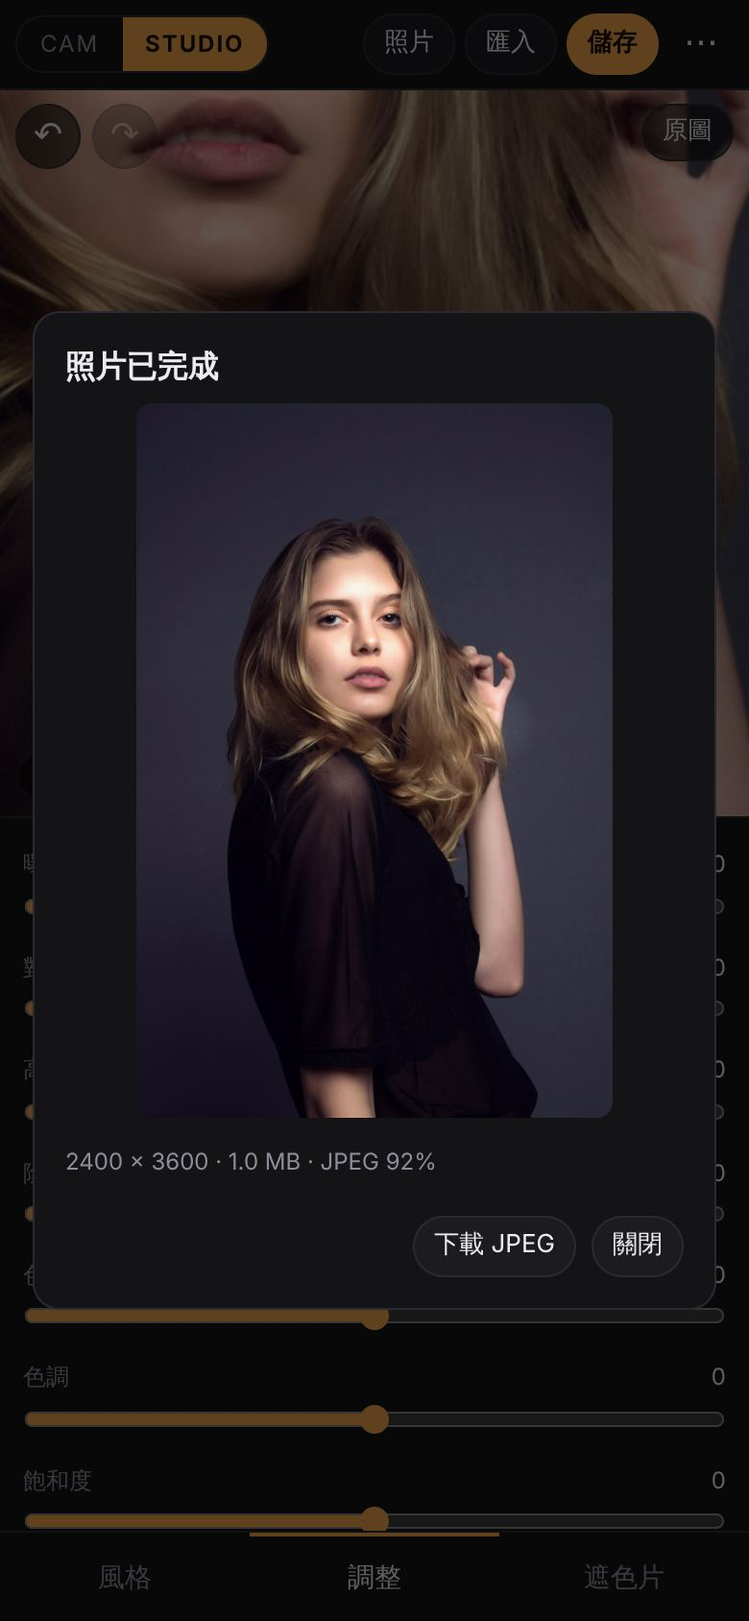
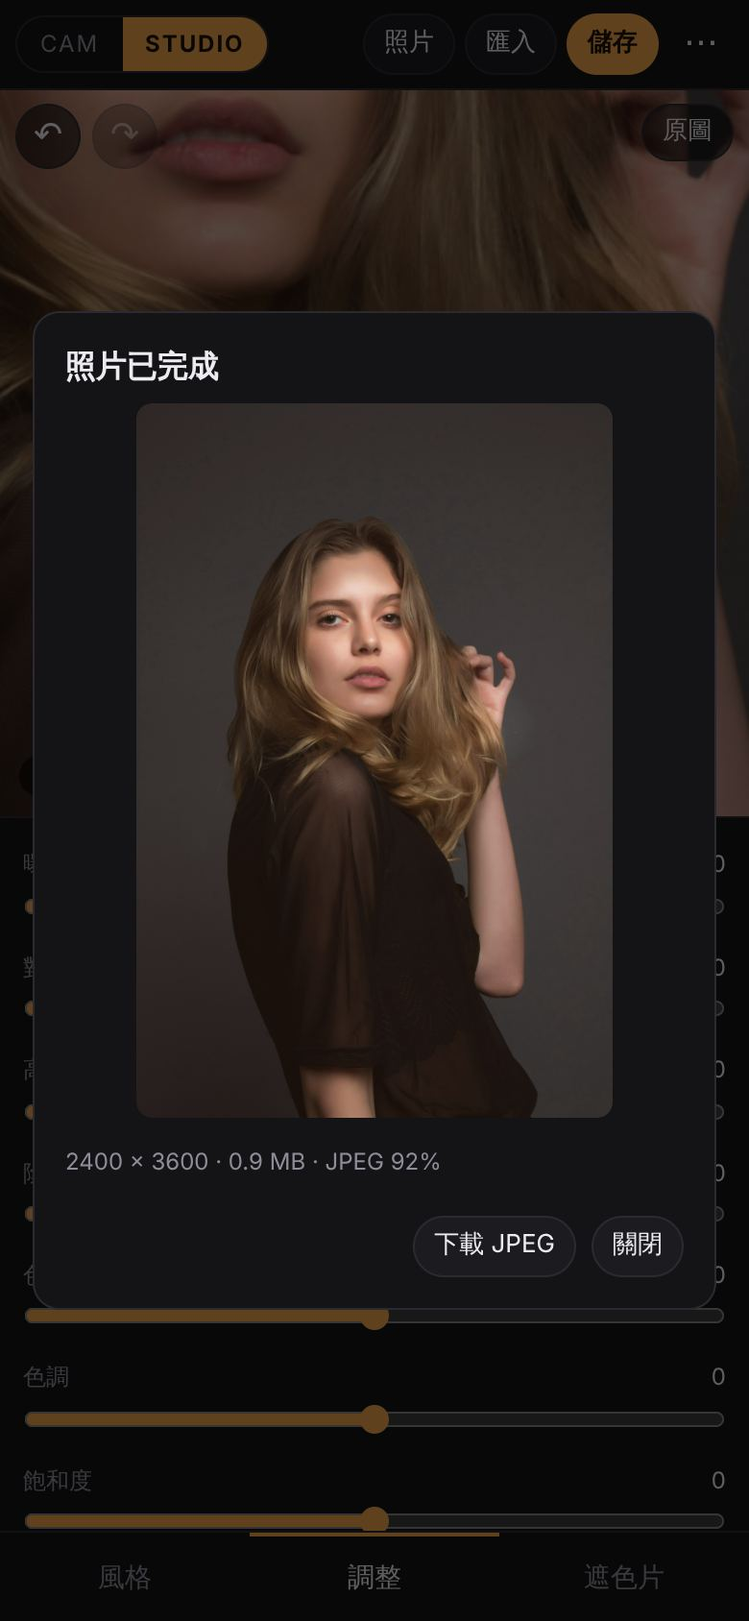
Edit a roll shot in Studio with the settings it was taken with
The camera's photo page gets an Edit button. Studio opens the shot's
original from the camera's roll database (read only, never created),
applies the same cinema crop and mirroring, moves the shot's masks into
that frame, and selects the look with the dials it was taken with:
strength, exposure, white balance, highlights and shadows, grain, glow,
sharpening and beauty. For these shots strength fades the colour only,
as in the camera. Beauty smoothing is ported to Studio for this.

The camera's full-size develop now snaps the cinema crop to whole pixels.
Acceptance adds a roll round trip: Studio's export matches the camera's
developed JPEG to 0.87/255 on average.

Claude-Session: https://claude.ai/code/session_01FRf5iYRawD8pofpK2po6zc

diff --git a/dist/eigastudio/src/app.js b/dist/eigastudio/src/app.js
@@ -5,7 +5,8 @@ import {parseXmp, XMP_FIELDS} from './xmp.js';
 import {parseCube} from './cube.js';
 import {bakeGrade} from './lr.js';
 import {compileLook, parseRecipeFile, describeLook, BUILTIN} from './recipe.js';
-import {pointCurve} from '../../src/color.js';
+import {pointCurve, cropFor} from '../../src/color.js';
+import {sanitizeMasks} from '../../src/masks.js';
 import {decodeImage, release, canvasBlob, download} from '../../src/files.js';
 import {canSharePhoto, sharePhoto} from '../../src/photo-delivery.js';
 import {zipSync, deflateSync, inflateSync} from '../vendor/fflate.js';
@@ -42,8 +43,8 @@ function camStyles() {
  } catch {}
  return out;
 }
-let virtual = [];
-const allStyles = () => [...lib.styles, ...virtual];
+let virtual = [], shotStyles = [];
+const allStyles = () => [...shotStyles, ...lib.styles, ...virtual];
 const styleById = id => id ? allStyles().find(s => s.id === id) : null;
 
 const compiled = new Map();
@@ -54,7 +55,8 @@ async function compile(style, size) {
  const text = style.text ?? (style.def ? null : decodeText(await lib.source(style.hash)));
  if (style.kind === 'xmp') {const x = parseXmp(text); c = {lut: bakeGrade(x.grade, size), masks: x.masks.map((m, i) => ({...m, id: 's' + i})), vignette: x.vignette, grain: x.grain};}
  else if (style.kind === 'cube') c = {lut: parseCube(text, style.file).lut, masks: [], vignette: 0, grain: {amount: 0, size: 1.5}};
- else c = compileLook(style.def ?? parseRecipeFile(text)[style.sub ?? 0], size);
+ else c = compileLook(style.def ?? parseRecipeFile(text)[style.sub ?? 0], size, style.dials);
+ if (style.dials) c = {...c, camStrength: true, ...(style.shotMasks ? {masks: sanitizeMasks(style.shotMasks).map((m, i) => ({...m, id: 'k' + i, full: true}))} : {})};
  compiled.set(key, c);
  if (compiled.size > 64) compiled.delete(compiled.keys().next().value);
  return c;
@@ -113,7 +115,7 @@ async function loadPhoto(blob, name, saved = null) {
   ui.z = 1; ui.tx = ui.ty = 0; fit(); syncBrushLayers(); updateCurve(); syncPanels();
   await loadCurrentStyle(); commit(false);
   renderGrid();
-  if (!saved) lib.setMeta('photo', {blob, name}).catch(() => {});
+  if (!saved) {lib.setMeta('photo', {blob, name}).catch(() => {}); if (shotStyles.length) {shotStyles = []; lib.setMeta('shotStyle', null).catch(() => {}); if (state.styleId?.startsWith('shot:')) {state.styleId = null; await loadCurrentStyle();} refreshLibrary();}}
  } catch (e) {toast(e.message || '無法開啟這張照片');}
  finally {busy(null);}
 }
@@ -585,6 +587,60 @@ function initMenu() {
  });
 }
 
+// ---------- open a shot from the CAM film roll ----------
+// Reads the camera's own roll database (same site) without ever creating or upgrading it.
+function camRoll(id) {
+ return new Promise((resolve, reject) => {
+  const req = indexedDB.open('eigacam-roll', 1);
+  req.onupgradeneeded = () => req.transaction.abort(); // no roll on this device: do not create an empty one
+  req.onerror = () => reject(Error('找不到 CAM 的底片盒'));
+  req.onsuccess = () => {
+   const db = req.result, tx = db.transaction(['shots', 'files']), shot = tx.objectStore('shots').get(id), file = tx.objectStore('files').get(id + ':original');
+   tx.oncomplete = () => {db.close(); shot.result && file.result ? resolve({shot: shot.result, blob: file.result}) : reject(Error('底片盒裡找不到這張照片的原始檔'));};
+   tx.onerror = () => {db.close(); reject(tx.error);};
+  };
+ });
+}
+// The camera crops to the cinema frame and mirrors selfies when it develops; do the same once, here.
+// Camera masks live in full-frame coordinates; move them into the cropped (and mirrored) frame.
+function maskToFrame(m, cr, mirror) {
+ const X = v => {const u = (v - cr.x) / cr.w; return mirror ? 1 - u : u;}, Y = v => (v - cr.y) / cr.h, o = {...m};
+ if (m.type === 'linear') Object.assign(o, {x0: X(m.x0), y0: Y(m.y0), x1: X(m.x1), y1: Y(m.y1)});
+ if (m.type === 'radial') Object.assign(o, {cx: X(m.cx), cy: Y(m.cy), rx: m.rx / cr.w, ry: m.ry / cr.h});
+ return o;
+}
+function shotFrame(width, height, shot) {const cr = cropFor(width, height, shot.ratio || 0), w = Math.round(width * cr.w), h = Math.round(height * cr.h), x = Math.round(width * cr.x), y = Math.round(height * cr.y); return {px: {x, y, w, h}, cr: {x: x / width, y: y / height, w: w / width, h: h / height}};}
+async function frameAsShot(blob, shot) {
+ if (!shot.ratio && !shot.mirror) return blob;
+ const im = await createImageBitmap(blob, {imageOrientation: 'from-image'}), {px, cr} = shotFrame(im.width, im.height, shot);
+ if (Array.isArray(shot.masks)) shot.masks = shot.masks.map(m => maskToFrame(m, cr, shot.mirror));
+ const c = document.createElement('canvas'); c.width = px.w; c.height = px.h;
+ const x = c.getContext('2d'); if (shot.mirror) {x.translate(c.width, 0); x.scale(-1, 1);}
+ x.drawImage(im, px.x, px.y, px.w, px.h, 0, 0, px.w, px.h); im.close?.(); // whole pixels: no resampling
+ try {return await canvasBlob(c, 'image/jpeg', .97);} finally {c.width = c.height = 1;}
+}
+function useShotStyle(desc) {
+ const base = desc && (styleById('cam:' + desc.look) ?? styleById('camr:' + desc.look) ?? styleById('camx:' + desc.look));
+ shotStyles = base ? [{...base, id: 'shot:' + desc.id, name: `${base.name}（拍攝設定）`, pack: '這張照片', virtual: true, dials: desc.dials ?? {}, shotMasks: desc.masks}] : [];
+ return base;
+}
+async function openShot(id) {
+ busy('從底片盒讀取原始檔');
+ let found; try {found = await camRoll(id);} catch (e) {busy(null); toast(e.message); return;}
+ const {shot} = found;
+ let blob; try {blob = await frameAsShot(found.blob, shot);} catch {blob = found.blob;}
+ const d = shot.dials ?? {}, num = (v, lo, hi) => Number.isFinite(v) ? clamp(v, lo, hi) : 0;
+ const desc = {id: shot.id, look: shot.look, dials: d, masks: Array.isArray(shot.masks) ? shot.masks : null}, base = useShotStyle(desc);
+ lib.setMeta('shotStyle', base ? desc : null).catch(() => {});
+ const name = `eigacam-${new Date(shot.created).toISOString().slice(0, 19).replace(/[-:T]/g, '')}.jpg`;
+ const adjust = {...newAdjust(), exposure: num(d.ev, -3, 3), temp: Math.round(num(d.warmth, -50, 50) * 1.067), highlights: num(d.hi, -100, 100), shadows: num(d.sh, -100, 100)};
+ const json = JSON.stringify({styleId: base ? 'shot:' + shot.id : null, strength: Number.isFinite(d.strength) ? clamp(d.strength, 0, 100) : 100, adjust, masks: [], sel: null});
+ busy(null); refreshLibrary();
+ await loadPhoto(blob, name, {json});
+ lib.setMeta('photo', {blob, name}).catch(() => {}); saveSoon();
+ toast(base ? `已用原始檔打開，套用拍攝時的「${base.name}」與參數` : '已用原始檔打開；拍攝時的色彩在 Studio 找不到，請從風格庫重新選');
+}
+
 // ---------- boot ----------
 function setTab(tab) {document.body.dataset.tab = tab; renderHandles(); draw(); if (tab === 'styles') requestAnimationFrame(() => pump());}
 async function boot() {
@@ -620,8 +676,13 @@ async function boot() {
  addEventListener('dragover', e => e.preventDefault());
  addEventListener('drop', e => {e.preventDefault(); depth = 0; $('dropHint').hidden = true; dropped(e);});
  refreshLibrary();
- const saved = await lib.getMeta('photo').catch(() => null);
- if (saved?.blob) await loadPhoto(saved.blob, saved.name, await lib.getMeta('edit').catch(() => null) ?? {json: '{}'});
+ const shotId = new URLSearchParams(location.search).get('shot');
+ if (shotId) {window.history.replaceState(null, '', location.pathname); await openShot(shotId);}
+ else {
+  useShotStyle(await lib.getMeta('shotStyle').catch(() => null)); renderPackFilter(); renderGrid();
+  const saved = await lib.getMeta('photo').catch(() => null);
+  if (saved?.blob) await loadPhoto(saved.blob, saved.name, await lib.getMeta('edit').catch(() => null) ?? {json: '{}'});
+ }
  if ('serviceWorker' in navigator && location.protocol === 'https:') navigator.serviceWorker.register('./sw.js').catch(() => {});
  // Hook for the automated checks in tests/studio-e2e.mjs.
  globalThis.eigastudio = {state, ui, lib, mainR, thumbR, renderNow, compile, styleById, allStyles, runImport, loadPhoto, exportPhoto, renderFull, renderMasks, get photo() {return photo;}, get exportFiles() {return exportFiles;}, get lastReport() {return lastReport;}, get current() {return current;}, get queue() {return queue.size + (pumping ? 1 : 0);}, get tiles() {return tiles;}};

diff --git a/dist/eigastudio/src/engine.js b/dist/eigastudio/src/engine.js
@@ -12,7 +12,7 @@ const fragment = `#version 300 es
 precision highp float;precision highp int;precision highp sampler3D;precision highp sampler2DArray;
 in vec2 uv;out vec4 frag;
 uniform sampler2D src,curveTex,nearTex,farTex,baseTex;uniform int op;uniform vec2 direction;uniform float threshold;uniform vec3 glowTint;
-uniform float sharpen,clarity,soft,localClarity,localClarityLow,halation,bloom,skinKeep;uniform sampler3D lut;uniform sampler2DArray brushTex;
+uniform float sharpen,clarity,soft,localClarity,localClarityLow,halation,bloom,skinKeep,beauty;uniform sampler3D lut;uniform sampler2DArray brushTex;
 uniform vec2 outSize;uniform float srcAspect,bypass,strength,lutOn,lutSize,lutDisplay,curveOn;
 uniform vec3 domainMin,domainMax,gain,overlayColor;
 uniform float contrast,highlights,shadows,saturation,vignette,grainAmount,grainSize;
@@ -70,7 +70,14 @@ void main(){
  vec2 img=vec2(uv.x,1.-uv.y);
  vec4 s=texture(src,uv);
  if(bypass>.5){frag=vec4(s.rgb,1.);return;}
- vec3 c=decode(s.rgb)*gain,raw=c;float skin=skinKeep>0.||clarity>0.||soft>0.||localClarity<0.?skinMask(raw):0.;
+ vec3 c=decode(s.rgb)*gain,raw=c;float skin=skinKeep>0.||clarity>0.||soft>0.||localClarity<0.||beauty>0.?skinMask(raw):0.;
+ // Beauty (shots from the camera only): edge-preserving smoothing on skin; eyes, brows and hair differ in tone and are kept.
+ if(beauty>0.&&skin>.02){
+  vec2 px=1./outSize;float R=.0045*min(outSize.x,outSize.y);vec3 sum=c;float wsum=1.;float y0=sqrt(lum(c));
+  for(int i=0;i<12;i++){float a=float(i)*6.2831853/12.;for(int k=1;k<=2;k++){vec3 q=scene(uv+vec2(cos(a),sin(a))*px*R*float(k)*.5);float w=exp(-pow(sqrt(lum(q))-y0,2.)/.0032)*skinMask(q);sum+=q*w;wsum+=w;}}
+  c=mix(c,sum/wsum,clamp(beauty*skin*.9,0.,1.));raw=c;
+ }
+ float smoothSkin=1.-.85*skin*min(beauty*2.,1.);
  if(contrast!=0.||highlights!=0.||shadows!=0.){ // tone on display luminance, applied as a ratio so hue holds
   float y0=lum(c),Y=clamp(enc1(y0),0.,1.),Y0=Y;float k=1.+contrast*.5;
   Y=Y<.5?.5*pow(Y/.5,k):1.-.5*pow((1.-Y)/.5,k);
@@ -81,7 +88,7 @@ void main(){
  if(curveOn>.5){vec3 d=clamp(encode(c),0.,1.)*(255./256.)+.5/256.;c=decode(vec3(texture(curveTex,vec2(d.r,.5)).r,texture(curveTex,vec2(d.g,.5)).g,texture(curveTex,vec2(d.b,.5)).b));}
  if(sharpen>0.){ // luminance-only unsharp mask on a one-pixel cross, soft-limited so edges never ring
   vec2 px=1./outSize;vec3 n=(scene(uv+vec2(px.x,0.))+scene(uv-vec2(px.x,0.))+scene(uv+vec2(0.,px.y))+scene(uv-vec2(0.,px.y)))*.25;
-  float L=sqrt(max(lum(raw),0.)),N=sqrt(max(lum(n),0.)),d=L-N;d=d/(1.+abs(d)*6.);float sL=max(L+sharpen*1.6*d,0.);c*=sL*sL/max(L*L,1e-6);
+  float L=sqrt(max(lum(raw),0.)),N=sqrt(max(lum(n),0.)),d=L-N;d=d/(1.+abs(d)*6.);float sL=max(L+sharpen*smoothSkin*1.6*d,0.);c*=sL*sL/max(L*L,1e-6);
  }
  vec3 base=c;float shown=0.;
  for(int i=0;i<${MAX_SLOTS};i++){if(i>=maskCount)break;float m=maskValue(i,img,base);c=adjust(c,m*mA[i].w,i);if(i==maskView-1)shown=m;}
@@ -94,14 +101,14 @@ void main(){
  if(lutOn>.5){
   vec3 glow=halation+bloom>0.?texture(nearTex,uv).rgb*halation*glowTint+texture(farTex,uv).rgb*bloom*mix(vec3(1.),glowTint,.4):vec3(0.);
   color=mix(neutral,lookup(c+glow),strength);
-  if(skinKeep>0.&&skin>.02){vec3 nat=neutral*vec3(1.015,.99,.985);nat=mix(vec3(lum(nat)),nat,.92);color=mix(color,mix(nat,color,.38),skin*skinKeep*strength);}
+  if(skinKeep>0.&&skin>.02){vec3 nat=neutral*vec3(1.015,.99,.985);nat+=(1.-nat)*.05*beauty;nat=mix(vec3(lum(nat)),nat,.92);color=mix(color,mix(nat,color,.38),skin*skinKeep*strength);}
   vec2 q=uv-.5;q.x*=outSize.x/outSize.y;float r=length(q)/length(vec2(.5*outSize.x/outSize.y,.5));
   color*=1.-vignette*strength*smoothstep(.35,1.05,r);
   if(grainAmount>0.){
    vec2 g=img*outSize/min(outSize.x,outSize.y)*1000./grainSize;vec2 o=vec2(250./(min(outSize.x,outSize.y)*grainSize));
    float gn=(grain(g+o)+grain(g-o)+grain(g+vec2(o.x,-o.y))+grain(g+vec2(-o.x,o.y)))*.25;
    float y=lum(color);float w=(.35+.65*pow(max(0.,1.-abs(y-.45)*1.8),.7))*smoothstep(0.,.1,y)*(1.-.7*smoothstep(.8,1.,y));
-   color+=gn*grainAmount*strength*w;
+   color+=gn*grainAmount*strength*w*(1.-.75*skin*min(beauty*2.,1.)); // keep smoothed skin clean
   }
  }
  if(maskView>0)color=mix(color,overlayColor,shown*.55);
@@ -114,7 +121,7 @@ const TYPES = ['linear', 'radial', 'luma', 'color', 'brush'];
 
 // styleMasks follow the style's strength; user masks are always at full amount.
 export function packMasks(styleMasks, userMasks, strength, viewId) {
- const live = [...(styleMasks ?? []).filter(m => m.enabled !== false && !maskIsNeutral(m)).map(m => ({m, amount: strength})), ...(userMasks ?? []).filter(m => m.id === viewId || (m.enabled !== false && !maskIsNeutral(m))).map(m => ({m, amount: m.enabled === false ? 0 : 1}))].slice(0, MAX_SLOTS);
+ const live = [...(styleMasks ?? []).filter(m => m.enabled !== false && !maskIsNeutral(m)).map(m => ({m, amount: m.full ? 1 : strength})), ...(userMasks ?? []).filter(m => m.id === viewId || (m.enabled !== false && !maskIsNeutral(m))).map(m => ({m, amount: m.enabled === false ? 0 : 1}))].slice(0, MAX_SLOTS);
  const a = new Float32Array(MAX_SLOTS * 4), b = new Float32Array(MAX_SLOTS * 4), c = new Float32Array(MAX_SLOTS * 4), d = new Float32Array(MAX_SLOTS * 4);
  live.forEach(({m, amount}, i) => {
   const o = i * 4, geo = m.type === 'linear' ? [m.x0, m.y0, m.x1, m.y1] : m.type === 'radial' ? [m.cx, m.cy, m.rx, m.ry] : m.type === 'luma' ? [m.lo / 100, m.hi / 100, m.feather / 100, 0] : m.type === 'color' ? [m.hue / 360, m.width / 360, m.feather / 360, 0] : [0, 0, 0, 0];
@@ -256,9 +263,10 @@ export class StudioRenderer {
   f('curveOn', p.curve !== false && this.hasCurve ? 1 : 0);
   f('vignette', style?.vignette ?? 0); f('grainAmount', style?.grain?.amount ?? 0); f('grainSize', style?.grain?.size ?? 1.5);
   // Camera look effects (eigacam looks only). Everything but the glow is scaled by strength, so 0% is the untouched photo.
-  const fx = style?.fx, k = strength, glow = fx && (fx.halation + fx.bloom) > 0, base = fx && k > 0 && (fx.clarity > 0 || fx.soft > 0 || fx.localClarity < 0);
+  // A shot opened from the camera keeps the camera's rule: strength fades the colour only.
+  const fx = style?.fx, k = style?.camStrength ? 1 : strength, glow = fx && (fx.halation + fx.bloom) > 0, base = fx && k > 0 && (fx.clarity > 0 || fx.soft > 0 || fx.localClarity < 0);
   f('sharpen', (fx?.sharpen ?? 0) * k); f('clarity', (fx?.clarity ?? 0) * k); f('soft', (fx?.soft ?? 0) * k); f('localClarity', (fx?.localClarity ?? 0) * k); f('localClarityLow', fx?.localClarityLow ?? .595);
-  f('halation', glow ? fx.halation : 0); f('bloom', glow ? fx.bloom : 0); f('skinKeep', fx?.skinKeep ?? 0);
+  f('halation', glow ? fx.halation : 0); f('bloom', glow ? fx.bloom : 0); f('skinKeep', fx?.skinKeep ?? 0); f('beauty', fx?.beauty ?? 0);
   const hue = (fx?.glowHue ?? 20) / 60, gs = fx?.glowSat ?? .55, tk = n => {const v = (n + hue) % 6; return 1 - gs * Math.max(0, Math.min(v, 4 - v, 1));}, tint = [tk(5), tk(3), tk(1)], tl = .2126 * tint[0] + .7152 * tint[1] + .0722 * tint[2];
   g.uniform3f(this.loc('glowTint'), ...tint.map(v => v / tl));
   for (const unit of [1, 2, 4]) {g.activeTexture(g.TEXTURE0 + unit); g.bindTexture(g.TEXTURE_2D, null);} // no feedback loops

diff --git a/dist/eigastudio/src/recipe.js b/dist/eigastudio/src/recipe.js
@@ -38,12 +38,14 @@ export function describeLook(def) {
  const look = resolveDef(def); checkLook(look);
  return {name: String(look.name ?? look.id ?? 'eigacam 配方').slice(0, 60), notes: [], partial: false};
 }
-export function compileLook(def, size = 33) {
+// dials: the camera dials a shot was taken with (grain, glow, sharpen); defaults otherwise.
+export function compileLook(def, size = 33, dials = {}) {
  const look = resolveDef(def);
  // Same settings the camera uses with its dials at their defaults (glow at the look's own default, no beauty smoothing).
- const s = renderSettings(look, {ev: 0, strength: 100, grain: 100, glow: look.glowDefault ?? 100, sharpen: 35, warmth: 0, beauty: 0});
+ const d = k => Number.isFinite(dials[k]) ? dials[k] : undefined;
+ const s = renderSettings(look, {ev: 0, strength: 100, grain: d('grain') ?? 100, glow: d('glow') ?? look.glowDefault ?? 100, sharpen: d('sharpen') ?? 35, warmth: 0, beauty: d('beauty') ?? 0});
  const n = (v, lo, hi) => Math.min(hi, Math.max(lo, Number(v) || 0));
- const fx = {sharpen: n(s.sharpen, 0, 1), clarity: n(s.clarity, 0, 1), soft: n(s.soft, 0, 1.5), localClarity: n(s.localClarity, -1, 0), localClarityLow: n(s.localClarityLow, .05, 1) || .595, halation: n(s.halation, 0, 2), bloom: n(s.bloom, 0, 2), glowHue: n(s.glowHue, 0, 360), glowSat: n(s.glowSat ?? .55, 0, 1), skinKeep: n(s.skinKeep, 0, 1)};
+ const fx = {sharpen: n(s.sharpen, 0, 1), clarity: n(s.clarity, 0, 1), soft: n(s.soft, 0, 1.5), localClarity: n(s.localClarity, -1, 0), localClarityLow: n(s.localClarityLow, .05, 1) || .595, halation: n(s.halation, 0, 2), bloom: n(s.bloom, 0, 2), glowHue: n(s.glowHue, 0, 360), glowSat: n(s.glowSat ?? .55, 0, 1), skinKeep: n(s.skinKeep, 0, 1), beauty: n(s.beauty, 0, 1)};
  return {lut: bakeLook(look, size), masks: sanitizeMasks(look.masks ?? []), vignette: n(s.vignette, 0, .6), grain: {amount: n(s.grain, 0, .2), size: n(s.grainSize, .5, 4) || 1.5}, fx};
 }
 

diff --git a/dist/src/style.css b/dist/src/style.css
@@ -281,8 +281,8 @@ button:focus-visible,[role=slider]:focus-visible{outline:2px solid var(--amber);
 .card small{padding:0 8px;font-size:11px;line-height:1.35;color:var(--dim);display:-webkit-box;-webkit-line-clamp:2;-webkit-box-orient:vertical;overflow:hidden}
 .card.active{border-color:var(--amber)}.card.active .code{color:var(--amber)}
 .card .remove{position:absolute;top:4px;right:4px;width:26px;height:26px;border-radius:50%;background:rgba(0,0,0,.6);color:#fff;font-size:15px;line-height:26px;text-align:center}
-.viewer-change{display:flex;justify-content:center;padding:8px 14px 0}
-.viewer-change .ghost{width:100%;max-width:420px;border-color:rgba(255,179,64,.5);color:var(--amber)}
+.viewer-change{display:flex;justify-content:center;gap:8px;padding:8px 14px 0}
+.viewer-change .ghost{flex:1;min-width:0;max-width:260px;white-space:nowrap;overflow:hidden;text-overflow:ellipsis;border-color:rgba(255,179,64,.5);color:var(--amber)}
 .exposure-ghost{position:absolute;inset:0;width:100%;height:100%;object-fit:fill;opacity:.45;pointer-events:none;mix-blend-mode:screen}
 .count{position:absolute;inset:0;display:grid;place-items:center;font:700 96px var(--mono);color:#fff;text-shadow:0 4px 30px #000;pointer-events:none}
 .aspects .glyph{font:700 15px var(--mono);color:var(--dim)}

diff --git a/dist/index.html b/dist/index.html
@@ -76,7 +76,7 @@
  <header class="sheet-head"><button class="back" id="viewerBack" aria-label="回到底片盒">‹ 底片盒</button><h2 id="viewerTitle"></h2><button id="viewerDelete" class="link danger-text">刪除</button></header>
  <div class="viewer-stage"><img id="viewerImage" alt=""><div id="viewerBusy" class="busy" hidden><span></span>重新沖印中</div></div>
  <p id="viewerMeta" class="viewer-meta"></p>
- <div id="viewerReel" class="viewer-change"><button id="viewerChange" class="ghost">換色彩 · 從原始檔重新沖印</button></div>
+ <div id="viewerReel" class="viewer-change"><button id="viewerChange" class="ghost">換色彩</button><button id="viewerEdit" class="ghost" title="在 Studio 用原始檔調整曲線、亮暗部、遮色片">編輯參數</button></div>
  <footer class="sheet-foot"><button id="viewerDownload" class="ghost">下載檔案</button><button id="viewerShare" class="primary">儲存到相簿</button></footer>
  <p id="viewerStatus" class="sheet-note" role="status"></p>
 </section>

diff --git a/dist/eigastudio/sw.js b/dist/eigastudio/sw.js
@@ -1,5 +1,5 @@
 // App shell cache for offline use. Network first, so a new deploy is picked up on the next load.
-const CACHE = 'eigastudio-v2';
+const CACHE = 'eigastudio-v3';
 const ASSETS = ['./', './index.html', './manifest.webmanifest', './src/style.css', './src/app.js', './src/engine.js', './src/library.js', './src/importer.js', './src/xmp.js', './src/cube.js', './src/lr.js', './src/recipe.js', './vendor/fflate.js', '../src/color.js', '../src/looks.js', '../src/masks.js', '../src/files.js', '../src/photo-delivery.js', '../src/develop.js', '../src/engine/renderer.js', '../src/engine/shaders.js', '../icon.svg', '../assets/icon-192.png', '../assets/icon-512.png'];
 self.addEventListener('install', e => e.waitUntil(caches.open(CACHE).then(c => c.addAll(ASSETS)).then(() => self.skipWaiting())));
 self.addEventListener('activate', e => e.waitUntil(caches.keys().then(keys => Promise.all(keys.filter(k => k.startsWith('eigastudio-') && k !== CACHE).map(k => caches.delete(k)))).then(() => self.clients.claim())));

diff --git a/dist/sw.js b/dist/sw.js
@@ -1,4 +1,4 @@
-const CACHE='eigacam-camera-v24';
+const CACHE='eigacam-camera-v25';
 const ASSETS=["./", "./index.html", "./icon.svg", "./manifest.webmanifest", "./src/style.css", "./src/app.js", "./src/camera.js", "./src/color.js", "./src/looks.js", "./src/masks.js", "./src/develop.js", "./src/roll.js", "./src/files.js", "./src/photo-delivery.js", "./src/engine/renderer.js", "./src/engine/shaders.js", "./assets/icons/camera-rotate.svg", "./assets/icons/photo.svg", "./assets/icons/check.svg", "./assets/icons/LICENSE", "./assets/icon-192.png", "./assets/icon-512.png", "./presets/EIGACAM-Neon-Rain.xmp"];
 self.addEventListener('install',e=>e.waitUntil(caches.open(CACHE).then(c=>c.addAll(ASSETS)).then(()=>self.skipWaiting())));
 self.addEventListener('activate',e=>e.waitUntil(caches.keys().then(keys=>Promise.all(keys.filter(k=>(k.startsWith('luma-studio-')||k.startsWith('eigacam-studio-')||k.startsWith('eigacam-camera-'))&&k!==CACHE).map(k=>caches.delete(k)))).then(()=>self.clients.claim())));

diff --git a/dist/src/develop.js b/dist/src/develop.js
@@ -29,8 +29,11 @@ export async function develop(blob, {lut, settings, ratio}) {
  const r = exporter();
  const decoded = await decodeImage(blob, r.maxEdge, r.maxPixels);
  try {
-  const crop = cropFor(decoded.width, decoded.height, ratio);
+  let crop = cropFor(decoded.width, decoded.height, ratio);
   const size = outputSize(decoded.width, decoded.height, crop, r.maxEdge, r.maxPixels);
+  // At full size, snap the cinema crop to whole pixels so every output pixel is exactly one source pixel (no resampling softness).
+  const W = decoded.width, H = decoded.height;
+  if (Math.abs(size.width - W * crop.w) < 1 && Math.abs(size.height - H * crop.h) < 1) crop = {x: Math.round(crop.x * W) / W, y: Math.round(crop.y * H) / H, w: size.width / W, h: size.height / H};
   r.setSource(decoded.image, decoded.width, decoded.height); r.setLUT(lut); r.resize(size.width, size.height);
   r.render({...settings, crop});
   const jpeg = await canvasBlob(r.canvas, 'image/jpeg', .94);

diff --git a/dist/src/app.js b/dist/src/app.js
@@ -564,6 +564,8 @@ const redevelop = guard(async lookId => {
 });
 $('viewerChange').onclick = guard(async () => {const shot = viewing; if (!shot) return; openPicker({current: shot.look, blob: await fileOf(shot.id, 'original'), onPick: redevelop});});
 $('viewerBack').onclick = () => {closeSheet('viewer'); viewing = null;};
+// Fine-tune in Studio: it opens this shot's original with the look and dials it was taken with.
+$('viewerEdit').onclick = () => {if (!viewing) return; if (memoryRoll) {$('viewerStatus').textContent = '這個瀏覽器沒有裝置儲存空間，無法交給 Studio 編輯。'; return;} store.set('eigacam.prefs', prefs); location.href = './eigastudio/?shot=' + encodeURIComponent(viewing.id);};
 $('viewerShare').onclick = async () => {
  if (!viewerFile) return;
  if (!canSharePhoto(viewerFile)) {download(viewerFile, viewerFile.name); $('viewerStatus').textContent = '此瀏覽器不能分享照片，已下載檔案。'; return;}

diff --git a/README.md b/README.md
@@ -31,7 +31,7 @@
 - **參數轉盤**：曝光、濃度（色彩強度）、亮部、暗部、色溫、顆粒、光暈、銳利。光暈的預設值每個色彩不同（賽博夜城、霓虹雨夜 40%，Transformer 30%），你調過的值會依色彩各自記住。拖曳刻度尺調整，按「重設」回到預設值。
 - **HQ**：開啟後，快門會打開系統相機。用系統相機拍攝畫質最高（iPhone 也能拿到原生 12MP 以上的照片），拍完回到這裡自動沖印。
 - **變焦**：裝置支援時，取景器下方會出現 1×／2×／3× 等選項。
-- **底片盒**：所有照片都先保存在這台裝置。可以一次選多張、一次分享或儲存；也可以從原始檔換一種色彩重新沖印。
+- **底片盒**：所有照片都先保存在這台裝置。可以一次選多張、一次分享或儲存；也可以從原始檔換一種色彩重新沖印。照片頁的「編輯參數」會用原始檔在 EIGASTUDIO 打開，帶入拍攝時的色彩與參數，可以再調曲線、亮暗部與遮色片。
 - **遮色片工作室**：參數列最後的「遮色片」。在取景器上即時看到效果；沒開相機時用最近一張照片預覽。
   - 四種選取：**漸層**（拖兩個點）、**圓形**（拖中心與邊緣）、**明暗範圍**、**顏色範圍**，最多 8 個。
   - 每個遮色片有自己的曝光、色溫、色調、飽和、對比與染色。
